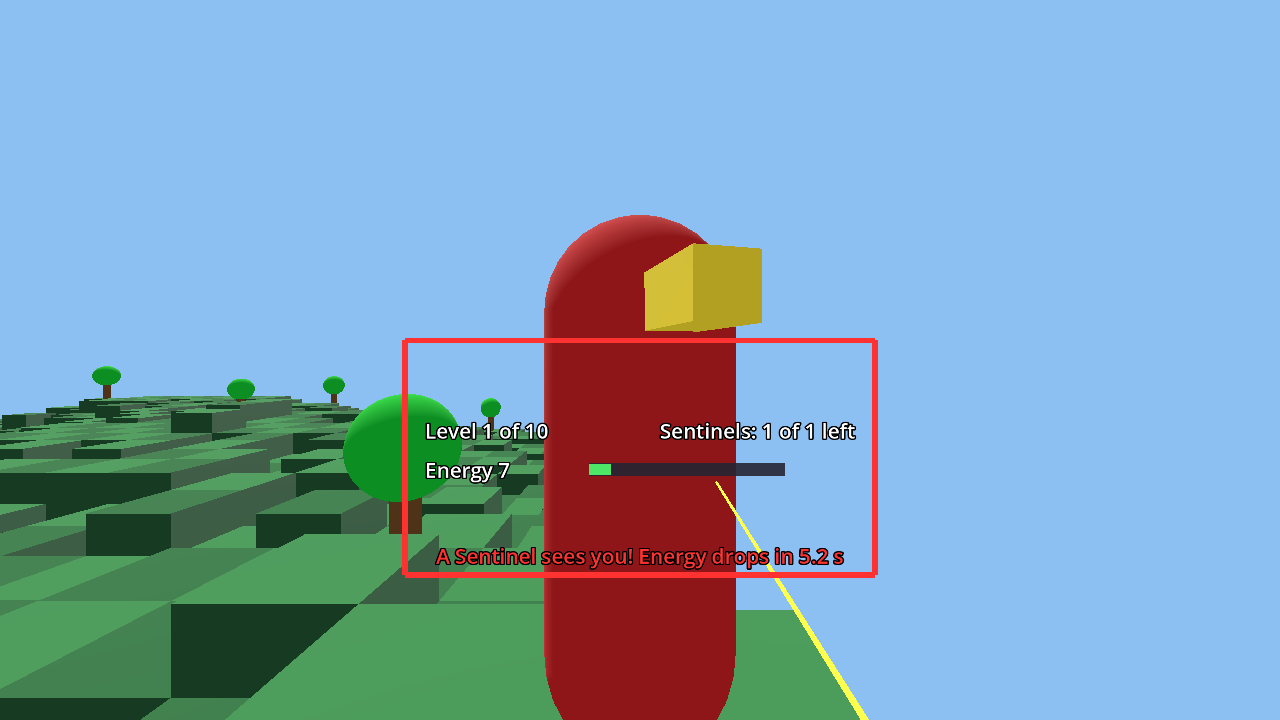
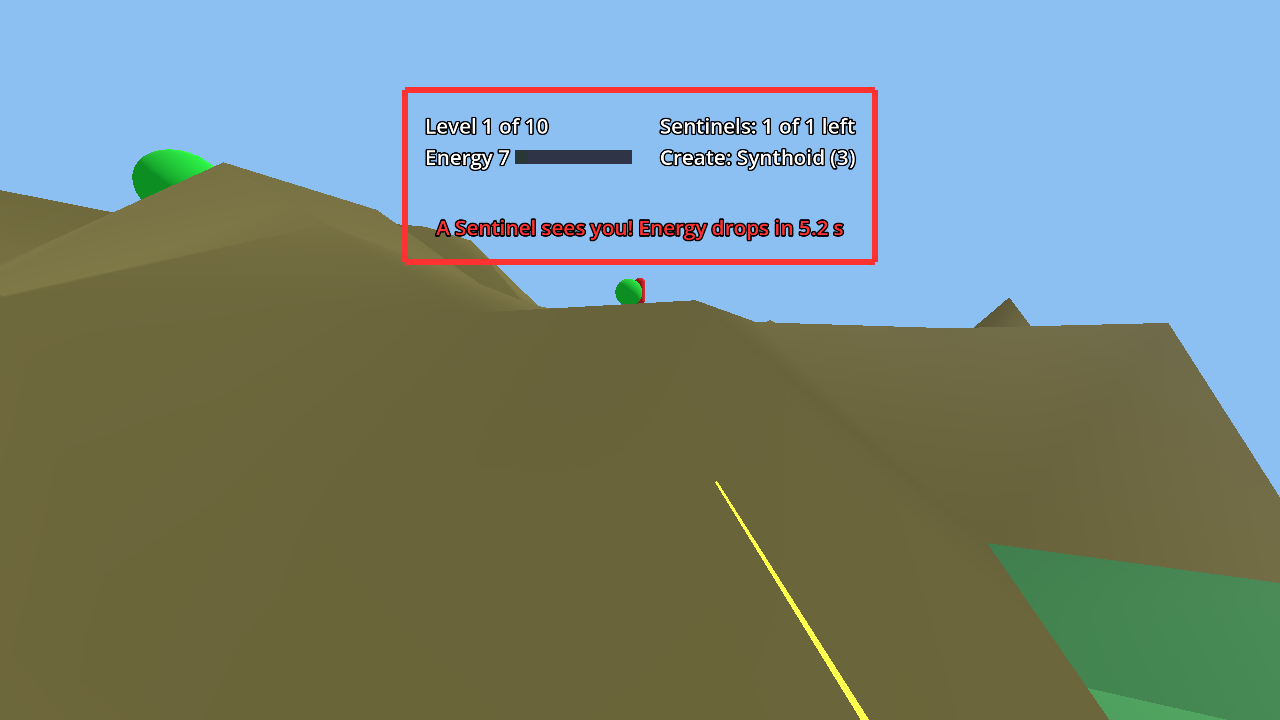
Retake screenshots (boulder stack, slopes, top view), SPEC rows AC-65..68, capture script

diff --git a/docs/SPEC.md b/docs/SPEC.md
@@ -767,8 +767,8 @@ fill the test file and test function when the test is written. Existing tests fo
 | AC-62 | `test_ac_logic.gd` | `ac_62_slopes_in_levels` |
 | AC-63 | `test_ac_logic.gd` | `ac_63_objects_only_on_flat` |
 | AC-64 | `test_ac_logic.gd` | `ac_64_sight_over_slopes` |
-| AC-65 | | |
-| AC-66 | | |
-| AC-67 | | |
-| AC-68 | | |
+| AC-65 | `test_ac_65_aim_slope.gd` | `ac_65 ...` PASS lines |
+| AC-66 | `test_ac_66_terrain_geometry.gd` | `ac_66 ...` PASS lines |
+| AC-67 | `test_ac_67_terrain_colours.gd` | `ac_67 ...` PASS lines |
+| AC-68 | `test_ac_68_move_flat_height.gd` | `ac_68 ...` PASS lines |
 | AC-69 | `tools/check-test-gate.sh` (`mise run test-gate`) | `README GATE OK` line |
